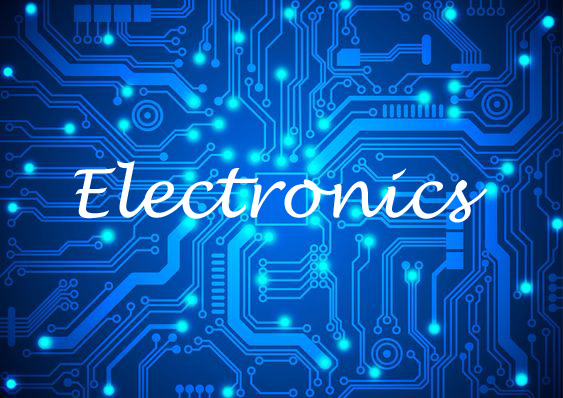
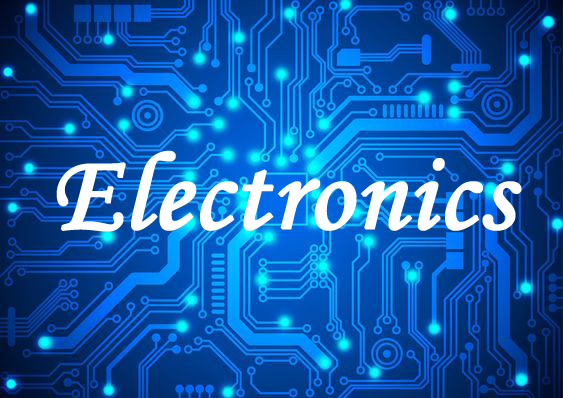
Engg/Robotics font

Changed region(s): [[0.0906, 0.3618, 0.9361, 0.603]]

diff --git a/stem/defaultstyle.css b/stem/defaultstyle.css
@@ -46,6 +46,28 @@ header {
   width: auto;
 }
 
+/********************** Photo list for different pages ***************/
+.navbar2 {
+  height: 300px;
+}
+
+.gallery2 {
+  margin: 25px;
+  border: 1px solid #275da1;
+  float: left;
+  height: 250px;
+}
+
+.gallery2:hover {
+  transform: scale(1.2);
+  border: 1px solid #777;
+}
+
+.gallery2 img {
+  height: 100%;
+  width: auto;
+}
+
 /**************** Layout Styles *****************/
 h1, h2 {
   line-height: 1;
@@ -78,13 +100,6 @@ body {
   margin-top: 0;
 }
 
-a {
-  color: #2879d0;
-}
-a:hover {
-  color: #2268b2;
-}
-
 leftbar {
   list-style-type: none;
   margin: 0;
@@ -109,14 +124,15 @@ td {
   /* border-bottom: 1px solid #000; */
 }
 
-ul.l1 {
+/************************* Lists *******************/
+ul.aboutl1 {
   font-size: 18px;
   line-height: 2;
   list-style-type: none;
   text-align:left;
 }
 
-ul.l2 {
+ul.aboutl2 {
   font-weight: 100;
   font-size: 14px;
   font-style: italic;
@@ -133,6 +149,57 @@ ul.yes {
 }
 
 ul.yes li:before { content:"\2713\0020"; } 
+
+ul.disc {
+  font-size: 18px;
+  line-height: 2;
+  list-style-type: disc;
+  text-align:left;
+  padding-left:20px
+}
+
+/************************* Links *******************/
+a.link{
+  line-height: 1;
+  letter-spacing: 0;
+  font-family: 'Marko One';
+  font-weight: normal;
+  color: #0821af;
+  font-size:26px;
+}
+
+/*
+a.link:link {
+  color: rgb(4, 3, 58);
+}
+*/
+
+a.link:hover {
+  background-color: #a6bbfa;
+  color: rgb(65, 4, 7);
+}
+
+/* unvisited link 
+a:link {
+  color: red;
+  /* color: #0960be; */ 
+}
+
+/* visited link 
+a:visited {
+  color: green;
+}
+
+/* mouse over link 
+a:hover {
+  /* background-color: lightgreen; */
+  color: hotpink;
+}
+
+/* selected link 
+a:active {
+  color: yellow;
+}
 
 /************************* Sections *******************/
 /********** Section for picture & description *********/
@@ -197,24 +264,3 @@ section50:after {
   clear: both;
 }
 
-/********************** Photo list for different pages ***************/
-.navbar2 {
-  height: 300px;
-}
-
-.gallery2 {
-  margin: 25px;
-  border: 1px solid #275da1;
-  float: left;
-  height: 250px;
-}
-
-.gallery2:hover {
-  transform: scale(1.2);
-  border: 1px solid #777;
-}
-
-.gallery2 img {
-  height: 100%;
-  width: auto;
-}

diff --git a/stem/about.md b/stem/about.md
@@ -10,25 +10,25 @@ h1: Meet the STEM Scholars
 <div class="sectionpdContent">
 
 <h2> Rayna Arora, President </h2>
-<ul class="l1"> 
+<ul class="aboutl1"> 
 <li> Junior at James Logan High School </li>
 <li> Experienced Programmer: 
-  <ul class="l2">
+  <ul class="aboutl2">
   <li> USA Computing Olympiad Platinum Level: <br> Ranked in the top 300 high school programmers in the nation </li> 
   <li> Instructor for the MIT App Inventor class at AAUW's NHUSD STEM Discovery Day (2020) </li>
   </ul> </li>
 <li> Experienced in Math Competitions:
-  <ul class="l2"> 
+  <ul class="aboutl2"> 
   <li> AIME Qualifier 2020, AMC10, AMC8, MOEMS, MathCounts </li>
   </ul> </li>
 <li> Experienced in Robotics:
-  <ul class="l2">
+  <ul class="aboutl2">
   <li> Coach for Emanuele Elementary Robotics FLL Team (2018, 2019) </li>
   <li> Member of Space Cookies FRC team (2018-present) </li>
   <li> Advanced to championships in FLL robotics competition (2015, 2016) </li>
   </ul> </li>
 <li> Experienced Volunteer: 
-  <ul class="l2"> 
+  <ul class="aboutl2"> 
   <li> Presidential Volunteer Service Gold Award winner (2019, 2020) </li> 
   </ul> </li> 
 </ul>
@@ -41,15 +41,15 @@ h1: Meet the STEM Scholars
 <div class="sectionpdContent">
     <h2> Rachel Portales, Vice President </h2>
 
-<ul class="l1"> 
+<ul class="aboutl1"> 
 <li> Sophomore at James Logan High School </li>
 <li> Experienced in Robotics:
-  <ul class="l2"> 
+  <ul class="aboutl2"> 
   <li> Assistant Coach for Emanuele Elementary Robotics FLL Team (2019) </li>
   <li> Participated in FLL robotics competition (2014, 2015, 2017) </li>
   </ul> </li>
 <li> Experienced Programmer: 
-  <ul class="l2"> 
+  <ul class="aboutl2"> 
   <li> Participated in AAUW's Tech Teck at Stanford (2017) </li>
   <li> Instructor for the MIT App Inventor class at AAUW's NHUSD STEM Discovery Day (2020) </li>
 </ul> </li> 
@@ -63,22 +63,22 @@ h1: Meet the STEM Scholars
 <div class="sectionpdContent">
 
 <h2> STEM Scholar Team </h2>
-<ul class="l1"> Leo Cao, Navika Singhal, <br>
+<ul class="aboutl1"> Leo Cao, Navika Singhal, <br>
 Annika Patanaik, Ashley Ramirez, Prabhdeep Kaur, Rachel Fewx, <br>
 Riya Dhir, Ronit Dhir, Sheya Lorraine Fang, Yvette Peng</ul>
 
 <h2> Ms. Gina Pacaldo, Advisor </h2>
-<ul class="l1"> 
+<ul class="aboutl1"> 
 <li> Outreach Facilitator:
-  <ul class="l2"> 
+  <ul class="aboutl2"> 
   <li> Union City Family Center  </li>
   <li> New Haven Unified School District </li>
 </ul> </li> </ul>
 
 <h2> Mr. Alex Carrozza, Advisor </h2>
-<ul class="l1"> 
+<ul class="aboutl1"> 
 <li> Computer Science Teacher: 
-  <ul class="l2">
+  <ul class="aboutl2">
   <li> James Logan High School </li>
 </ul> </li> </ul>
 

diff --git a/index.md b/index.md
@@ -40,7 +40,7 @@ h2: Achieve excellence in any area of STEM
   <img class="section50left" src="/images/Maze.jpg">
   <div class="section50right">
     <h2>I wanna do STEM but ...</h2> 
-    <ul class="l1" style="padding-left:40px"> 
+    <ul class="disc" style="padding-left:40px"> 
     <li>Where do I start?  .. or ..</li>
     <li>How do I pick an activity? .. or ..</li>
     <li>I did STEM before. What's the next step? .. or ..</li>
@@ -52,11 +52,11 @@ h2: Achieve excellence in any area of STEM
 <section50>
   <div class="section50left">
     <h2>You're lucky you found us!</h2>   
-    <ul class="l1" style="padding-left:0px"> 
+    <ul class="aboutl1" style="padding-left:0px"> 
     <li>We'll help newbees get started in any STEM area,</li>
     <li>and experienced STEMmers figure out the next steps.</li>
     <li>Here you'll find high quality resources for: 
-    <ul class="l1" style="list-style-type: disc;">
+    <ul class="disc">
     <li>elementary, middle and high school students</li>
     <li>beginners, intermediates and experts in STEM</li>
     </ul></li>

diff --git a/engineering/electronics.md b/engineering/electronics.md
@@ -6,14 +6,14 @@ h1: Electronics
 h2: Engineering
 ---
 <section50>
-  <h2>Elementary School</h2>
+  <h1>Elementary School</h1>
 </section50>
 
 <section50>
   <img class="section50left" style="padding-top: 10px;" src="/images/SnapCircuits.jpg">
 
   <div class="section50right">
-    <a href="https://www.amazon.com/Snap-Circuits-SC-300-Electronics-Exploration/dp/B0000683A4"> <h2>Snap Circuits</h2> </a>
+    <a class="link" href="https://www.amazon.com/Snap-Circuits-SC-300-Electronics-Exploration/dp/B0000683A4"> Snap Circuits </a>
 
   </div>
 

diff --git a/stem/engineering.md b/stem/engineering.md
@@ -12,7 +12,7 @@ h2: Robotics and Electronics
   </div>
 
   <div class="section50right">
-    <a href="https://blog.prepscholar.com/different-types-of-engineering"> <h2>Major branches of engineering</h2> </a>
+    <a class="link" href="https://blog.prepscholar.com/different-types-of-engineering"> Major branches of engineering </a>
     <ul class="yes" style="padding-left:40px; font-size: 18px;"> 
     <li>Chemical - invent cool new materials</li>
     <li>Civil - design buildings and bridges</li>
